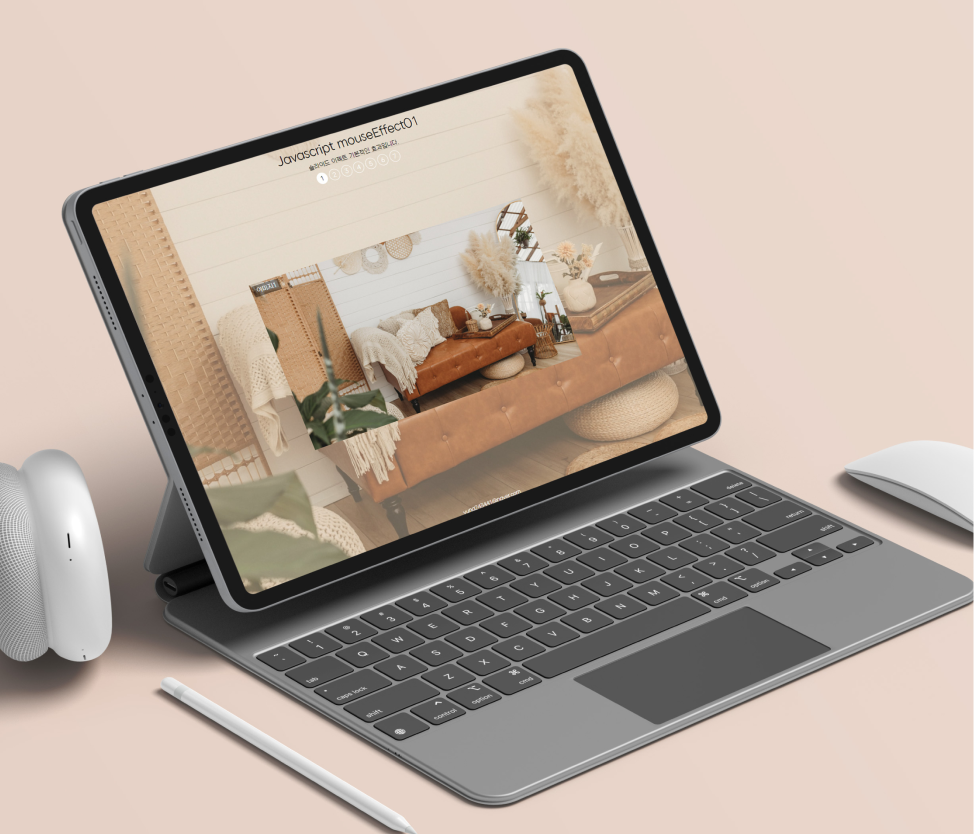
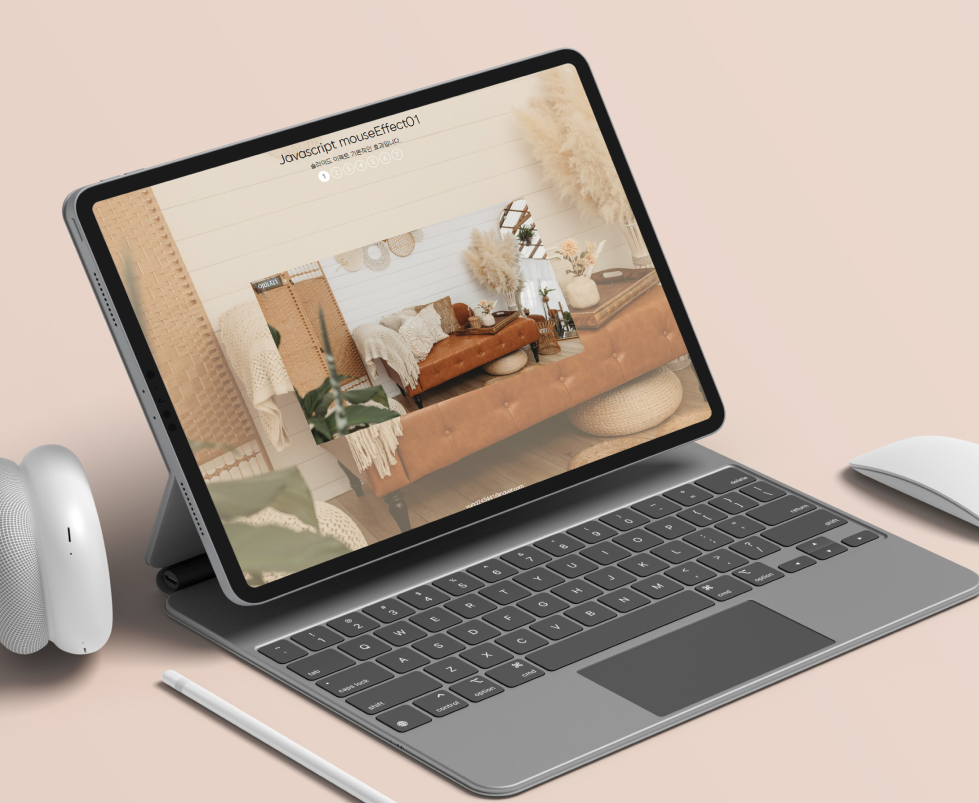
5

Changed region(s): [[0.0, 0.0, 1.0, 1.0], [0.0919, 0.6227, 0.1226, 0.6538], [0.0613, 0.6538, 0.0919, 0.6849]]

diff --git a/src/scss/layout/_section5.scss b/src/scss/layout/_section5.scss
@@ -1,11 +1,8 @@
 #section5 {
   width: 100%;
   height: 400vh;
-  background-color: #f4f0ea;
+  background-color: #fbf7f3;
   .scroll__wrap {
-    .scroll__img {
-      width: 30vw;
-    }
     .scroll__01 {
       width: 100%;
       height: 100vh;
@@ -14,8 +11,12 @@
         width: 50vw;
         height: 100vh;
         background-image: url(../../images/scroll01.png);
-        background-size: cover;
         background-repeat: no-repeat;
+        background-size: cover;
+      }
+      .scroll__inner__img {
+        filter: saturate(100%);
+        transform: scale(1.025);
       }
     }
     .scroll__inner__text {
@@ -46,10 +47,18 @@
       height: 100vh;
 
       .scroll__02__text01 {
-        font-size: 7vw;
+        font-size: 8vw;
+        margin-top: 4vw;
+        margin-left: 23vw;
+        color: #4b3d30;
+        font-weight: normal;
       }
       .scroll__02__text02 {
         font-size: 1vw;
+        margin-top: 3vw;
+        margin-left: 20vw;
+        font-family: AritaDotum;
+        color: #4b3d30;
       }
     }
     .scroll__inner__img02 {
@@ -57,7 +66,9 @@
       height: 100vh;
       background-image: url(../../images/scroll02.png);
       background-repeat: no-repeat;
+      background-position: center center;
       background-size: cover;
+      transition: all 1s;
     }
     .scroll__03 {
       width: 100%;
@@ -69,24 +80,58 @@
         height: 100vh;
         background-image: url(../../images/scroll03.png);
         background-repeat: no-repeat;
+        background-position: center center;
         background-size: cover;
+        transition: all 1s;
       }
       .scroll__inner__text03 {
         width: 50%;
         height: 100vh;
         .scroll__03__text01 {
-          font-size: 7vw;
+          font-size: 8vw;
+          margin-top: 4vw;
+          margin-left: 2vw;
+          color: #4b3d30;
+          font-weight: normal;
         }
         .scroll__03__text02 {
           font-size: 1vw;
+          margin-top: 3vw;
+          margin-left: 3vw;
+          font-family: AritaDotum;
+          color: #4b3d30;
         }
       }
     }
     .scroll__04 {
       width: 100%;
       height: 100vh;
-      background-color: #b48888;
       display: flex;
+      .scroll__inner__text04 {
+        width: 50%;
+        height: 100vh;
+        .scroll__04__text01 {
+          font-size: 8vw;
+          color: #4b3d30;
+          margin-left: 16vw;
+          margin-top: 6vw;
+        }
+        .scroll__04__text02 {
+          font-size: 1vw;
+          margin-top: 3vw;
+          margin-left: 17vw;
+          color: #4b3d30;
+          font-family: AritaDotum;
+        }
+      }
+      .scroll__inner__img03 {
+        width: 50%;
+        height: 100vh;
+        background-image: url(../../images/scroll04.png);
+        transition: all 1s;
+        background-size: cover;
+        background-repeat: no-repeat;
+      }
     }
   }
 }

diff --git a/src/index.html b/src/index.html
@@ -177,7 +177,7 @@
           </div>
           <div class="scroll__02">
             <div class="scroll__inner__text02">
-              <div class="scroll__02__text01">JAVASCRIPT</div>
+              <div class="scroll__02__text01">REACT</div>
               <div class="scroll__02__text02">
                 항공기계설계를 전공으로 공부하였고, 다양한 분야의 업무를 하며<br />
                 나의 적성에 맞는 일을 찾고자 노력을 했습니다. 다니던 대학원을<br />
@@ -190,7 +190,7 @@
           <div class="scroll__03">
             <div class="scroll__inner__img03"></div>
             <div class="scroll__inner__text03">
-              <div class="scroll__03__text01">JAVASCRIPT</div>
+              <div class="scroll__03__text01">VUE</div>
               <div class="scroll__03__text02">
                 항공기계설계를 전공으로 공부하였고, 다양한 분야의 업무를 하며<br />
                 나의 적성에 맞는 일을 찾고자 노력을 했습니다. 다니던 대학원을<br />
@@ -201,8 +201,13 @@
           </div>
           <div class="scroll__04">
             <div class="scroll__inner__text04">
-              <div class="scroll__04__text01"></div>
-              <div class="scroll__04__text02"></div>
+              <div class="scroll__04__text01">NODE.JS</div>
+              <div class="scroll__04__text02">
+                항공기계설계를 전공으로 공부하였고, 다양한 분야의 업무를 하며<br />
+                나의 적성에 맞는 일을 찾고자 노력을 했습니다. 다니던 대학원을<br />
+                휴학하고 국비지원학원에서 약 6개월간의 여정을 시작했습니다.<br />
+                아직은 서툴고 부족하다는 점을 알고 있습니다.
+              </div>
             </div>
             <div class="scroll__inner__img03"></div>
           </div>

diff --git a/src/scss/layout/_section4.scss b/src/scss/layout/_section4.scss
@@ -1,10 +1,12 @@
 #section4 {
   width: 100%;
   height: 100vh;
-  background-color: #fbf7f3;
+  background-color: #aa937d;
   .intro02__inner {
     font-size: 7vw;
     text-align: center;
     padding-top: 20vw;
   }
 }
+
+//fbf7f3
